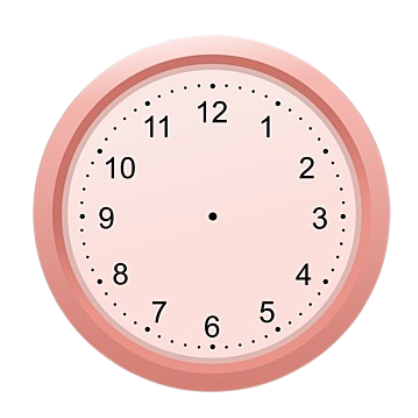
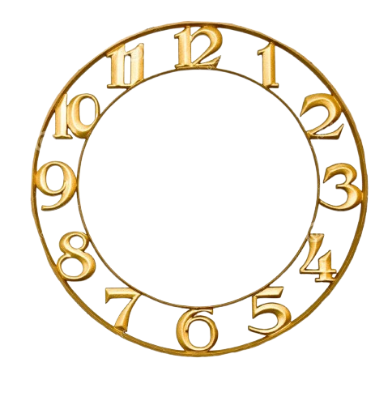
added files

diff --git a/style.css b/style.css
@@ -3,3 +3,55 @@
     padding:0;
     box-sizing: border-box;
 }
+body{
+    background: url('bg.png') no-repeat center center/cover;
+    width:cover;
+}
+h1{
+    display: flex;
+    justify-content: center;
+    font-size: 70px;
+    color:gold;
+    text-shadow: 4px 6px 10px rgb(249, 246, 68);
+
+}
+.clockcontainer{
+    position:absolute;
+    left:450px;
+    /* border:2px solid red; */
+    height:40vw;
+    width:40vw;
+    background: url('image.png') no-repeat;
+    background-size: 100%;
+}
+#hour, #minute, #second{
+    position:absolute;
+    background:gold;
+    border-radius:10px;
+}
+#hour{
+    width:1%;
+    height: 20%;
+    top: 30%;
+    left: 49.8%;
+    opacity: 0.8;
+    transform-origin: bottom;
+}
+#minute{
+    width:0.7%;
+    height: 24%;
+    top: 26%;
+    left: 49.8%;
+    opacity: 0.8;
+    /* display: none; */
+    transform-origin: bottom;
+}
+#second{
+    width:0.5%;
+    height: 32%;
+    top: 18%;
+    left: 49.8%;
+    opacity: 0.8;
+    /* display:none; */
+    transform-origin: bottom;
+}

diff --git a/script.js b/script.js
@@ -1,1 +1,13 @@
-console.log("Analog Clock")
+console.log("Analog Clock");
+setInterval(()=>{
+   date = new Date();
+   htime = date.getHours();
+   mtime = date.getMinutes();
+   stime = DataTransfer.getSeconds();
+   hrotation = 30*htime + mtime/2;
+   mrotation = 6*mtime;
+   srotation = 6*stime;
+  hour.style.transform = `rotate(${hrotation}deg)`; 
+  minute.style.transform = `rotate(${mrotation}deg)`; 
+  second.style.transform = `rotate(${srotation}deg)`;   
+ },1000);

diff --git a/index.html b/index.html
@@ -7,6 +7,12 @@
     <link rel="stylesheet" href="style.css">
 </head>
 <body>
+    <h1>Analog Clock</h1>
+    <div class="clockcontainer">
+        <div id="hour"></div>
+        <div id="minute"></div>
+        <div id="second"></div>
+    </div>
     <script src="script.js"></script>
 </body>
 </html>
